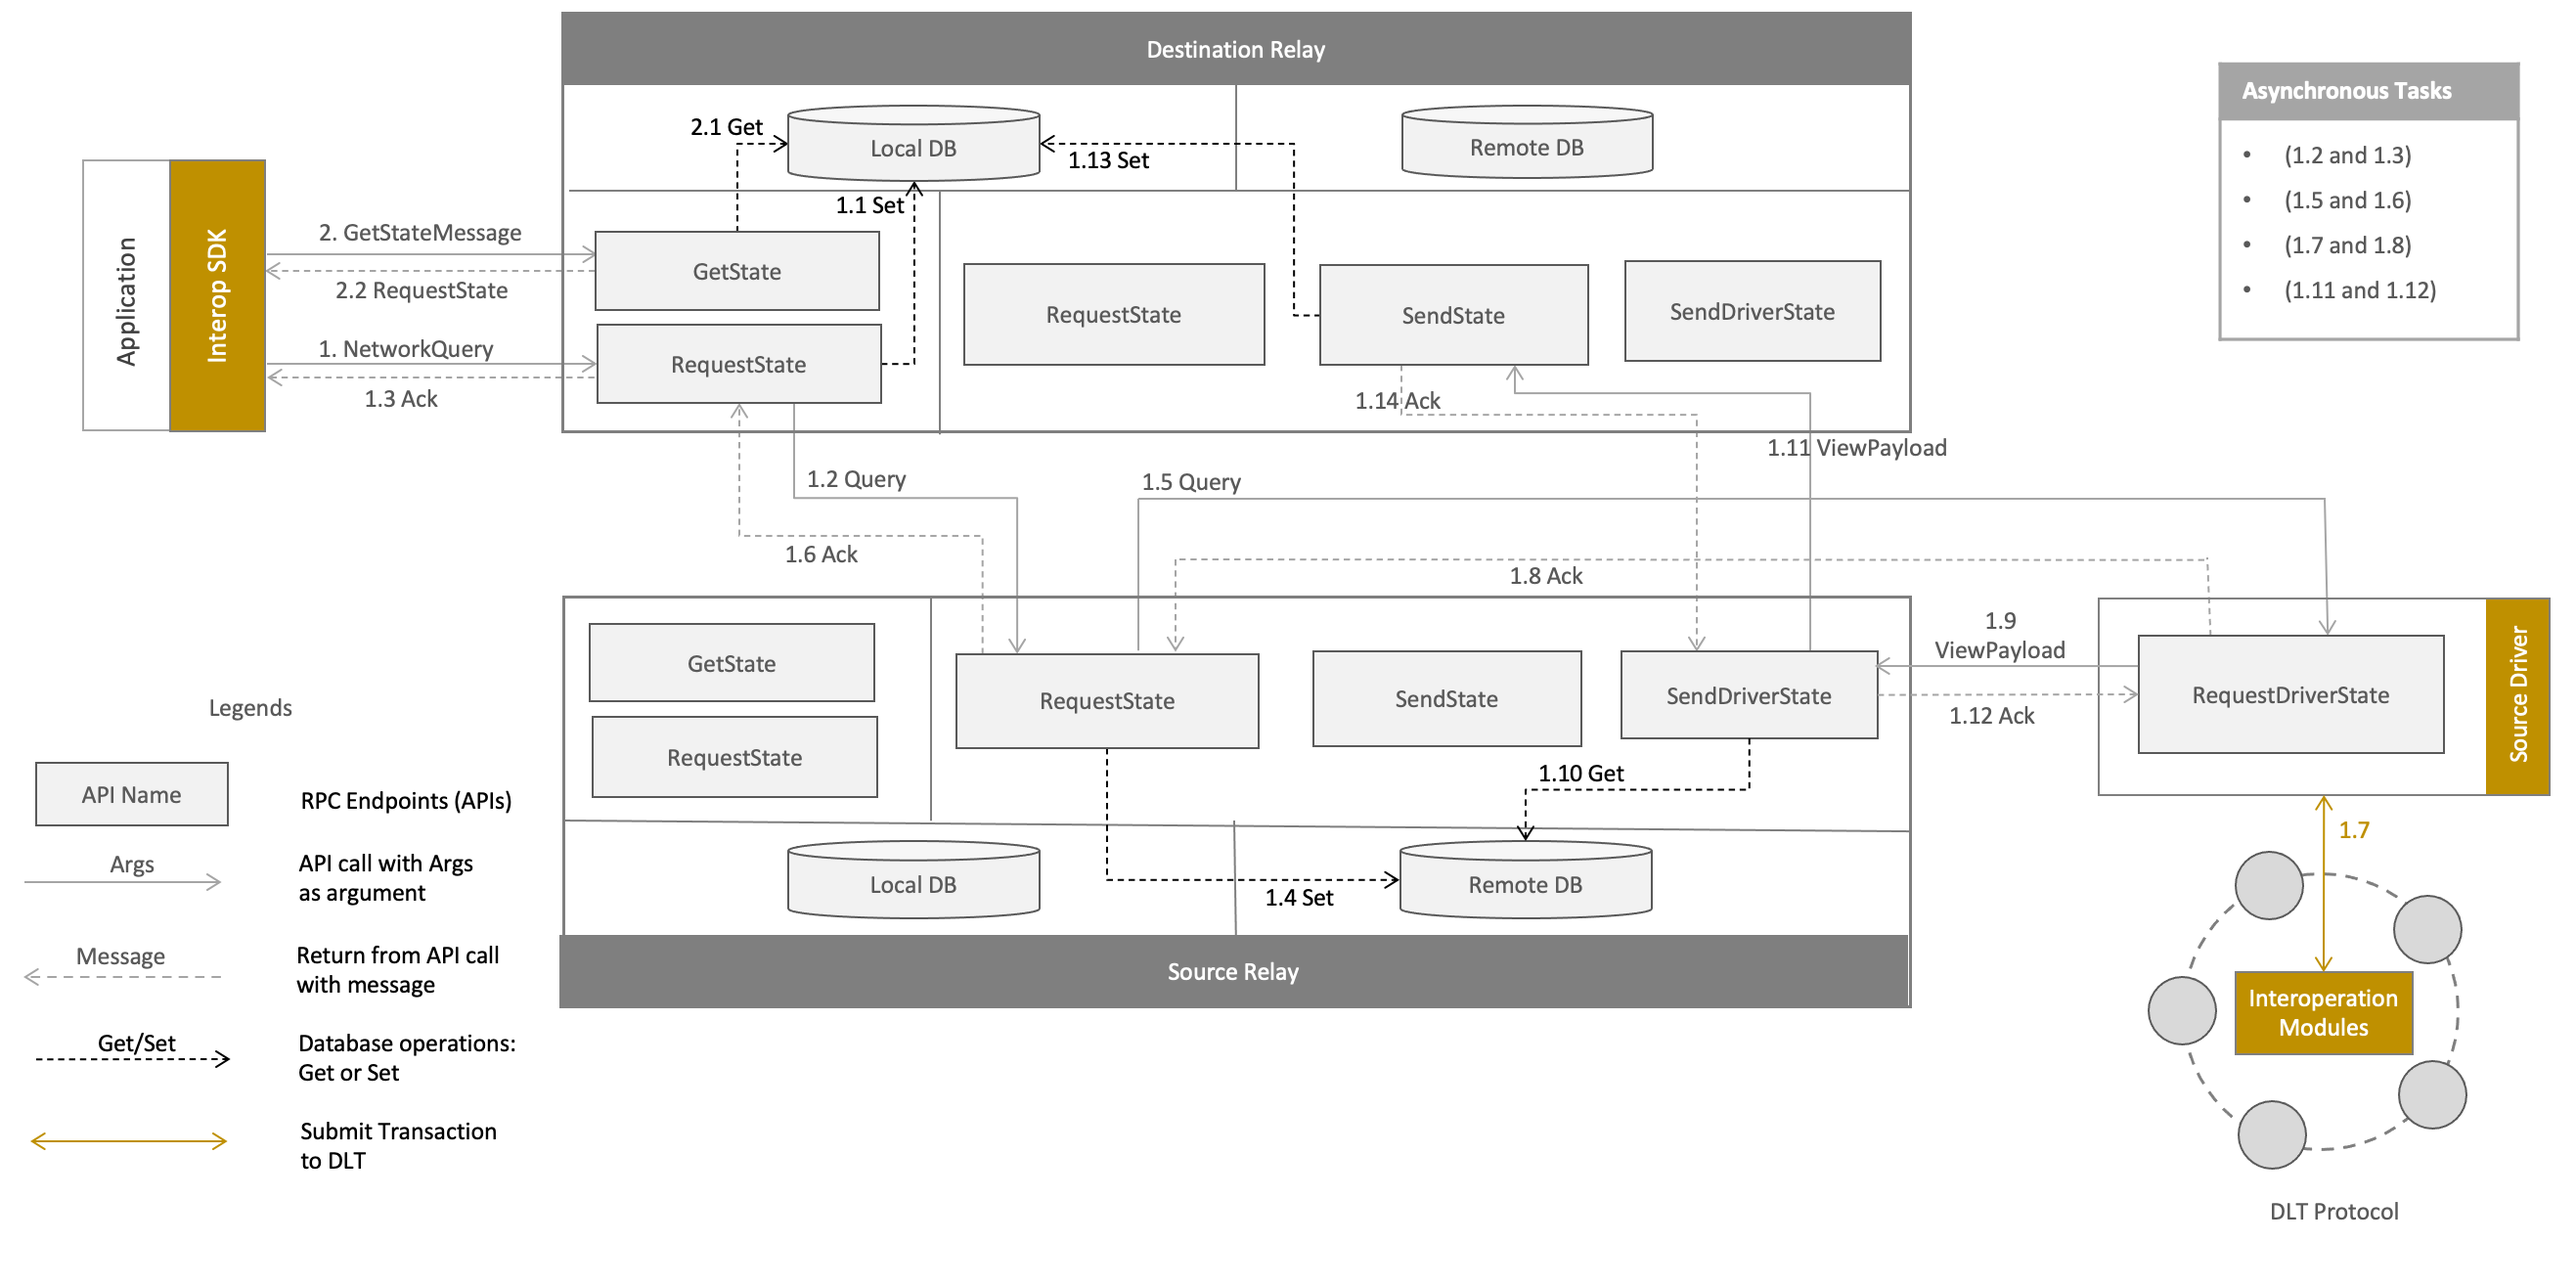
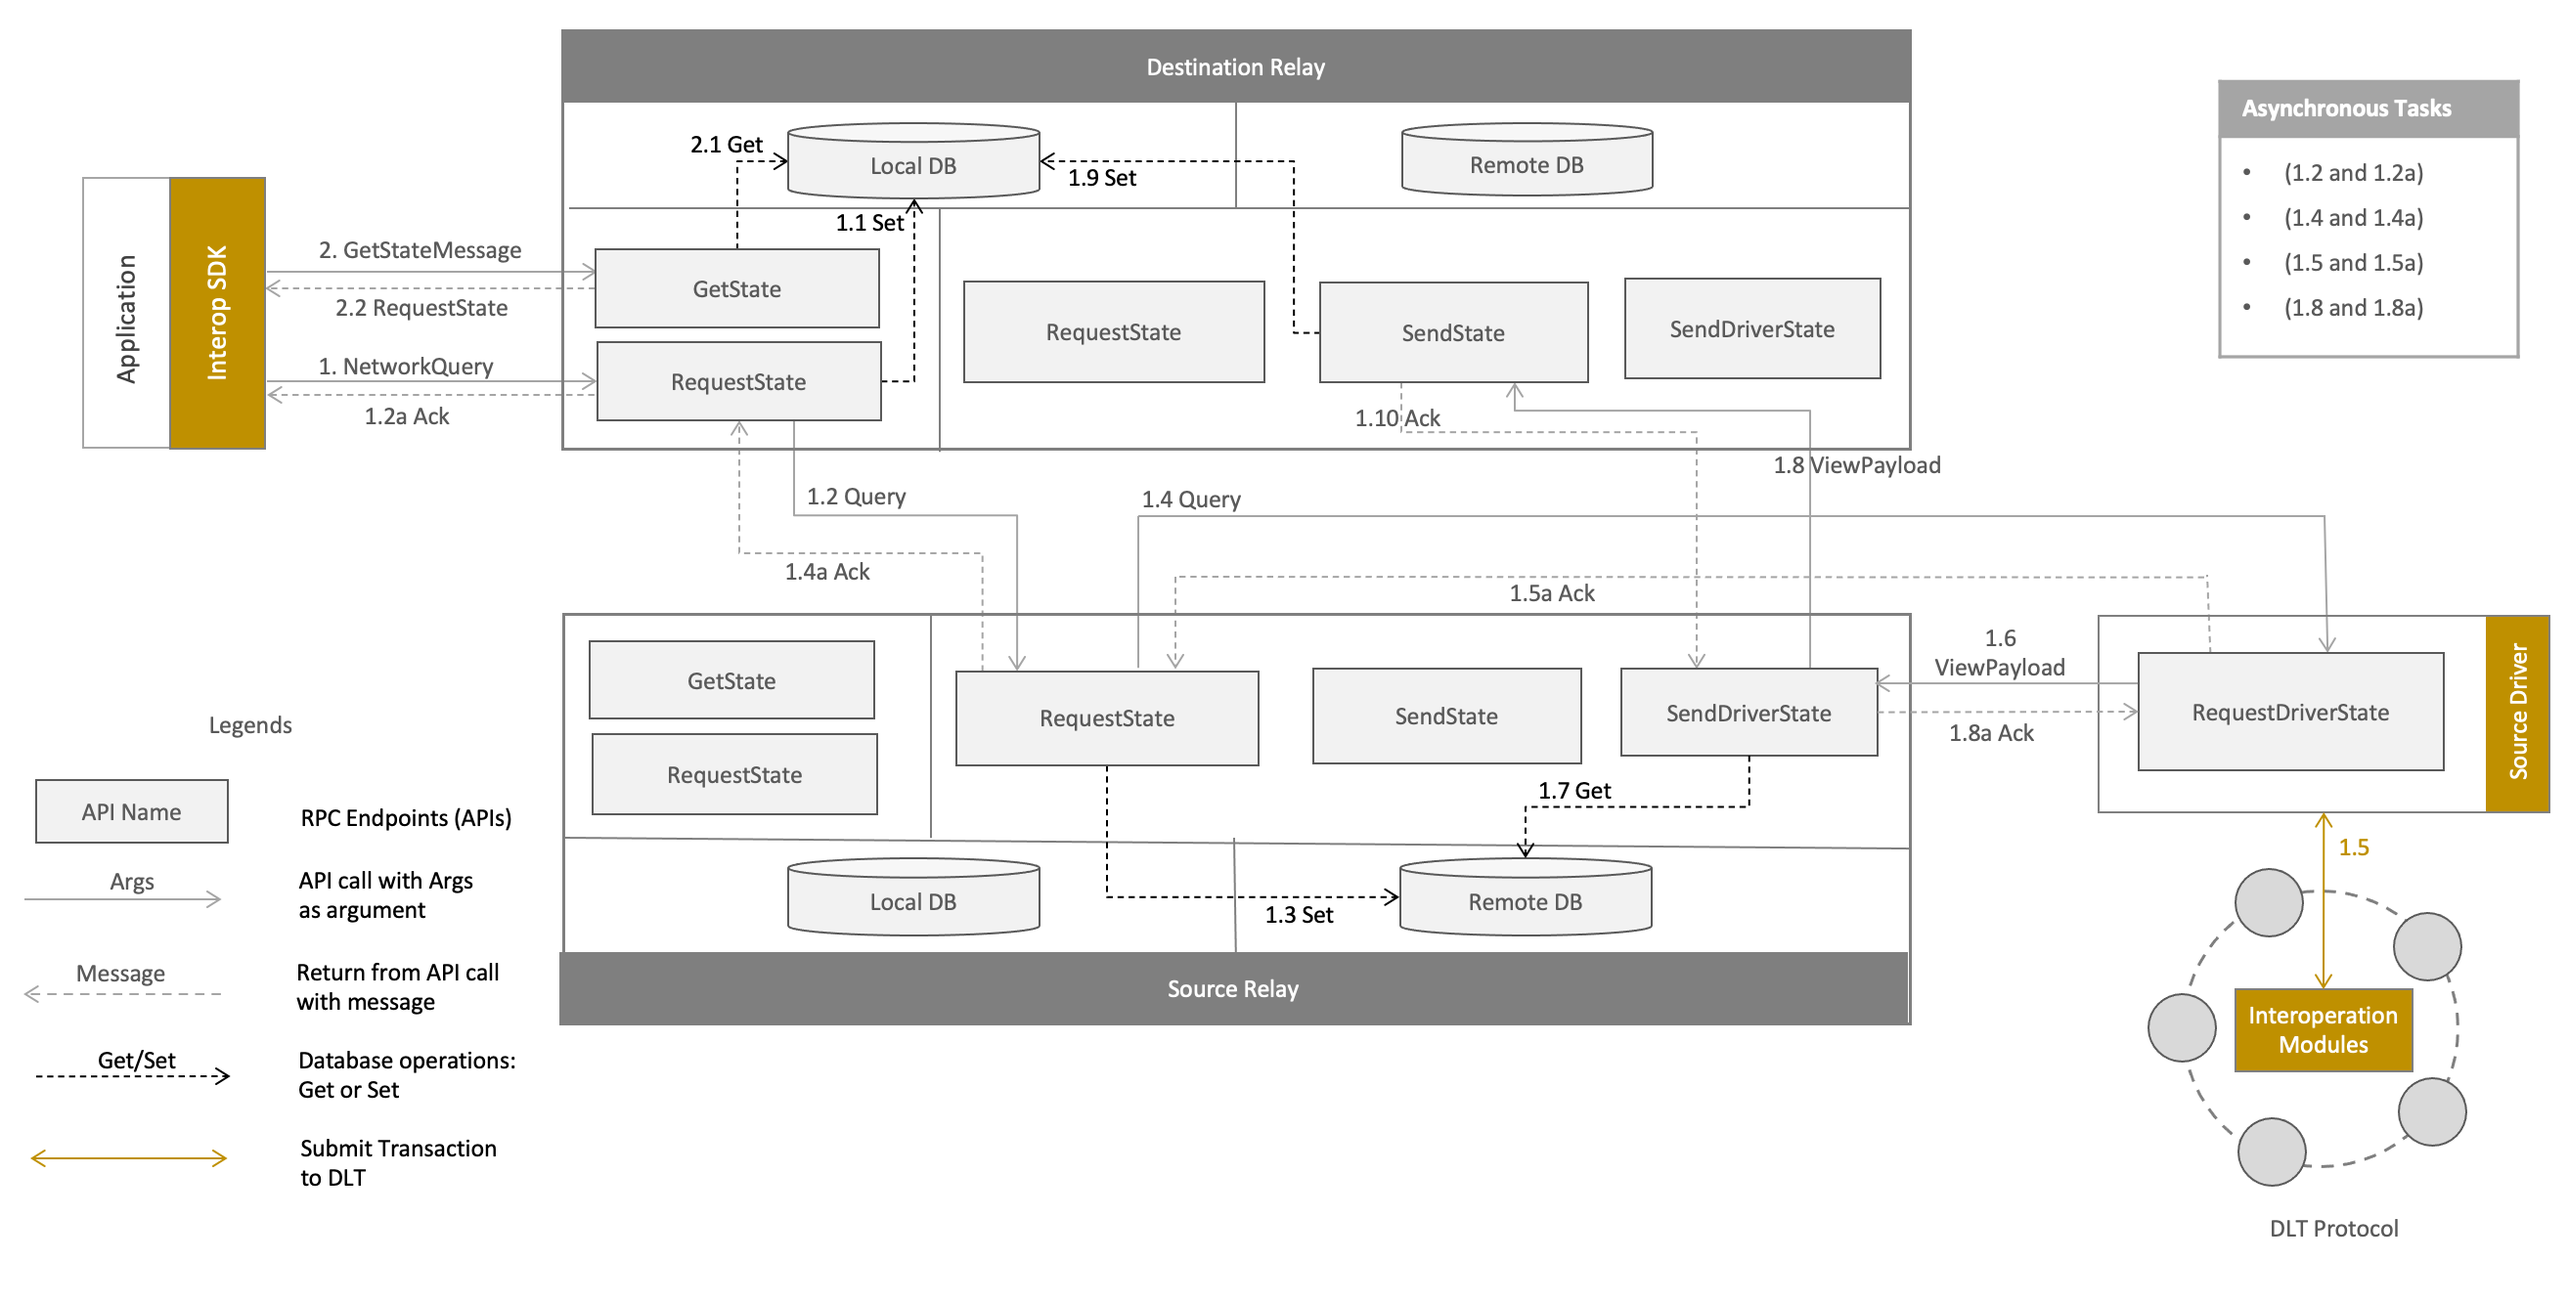
renumber steps in relay-flow rfc

diff --git a/rfcs/protocols/data-sharing/generic.md b/rfcs/protocols/data-sharing/generic.md
@@ -53,18 +53,18 @@ The end-to-end flow is explained in figure above. The steps numbers from figure 
 1. Client prepares `NetworkQuery` and sends it to Destination Relay via `RequestState` (Client App) API.
   * **1.1:** Destination relay (inside Client’s `RequestState`) generates unique `request_id` for the query and stores the `RequestState` message with current status as `PENDING_ACK` in local database at key `request_id`.
   * **1.2:** Destination relay (inside Client’s `RequestState`) prepares `Query` and spawns a thread to send the Query to source relay via `RequestState` (Relay Service) API. When destination relay will receive `Ack` from source relay, it will update the status of `RequestState` as `PENDING` in database at key `request_id`
-  * **1.3:** Destination relay (inside Client’s `RequestState`) returns Ack to the client at the end of this API (happens asynchronously with step **1.2**).
-  * **1.4:** Source relay (inside Relay’s `RequestState`) upon receiving the `Query`, stores it in remote database at key `request_id`.
-  * **1.5:** Source relay (inside Relay’s `RequestState`) then spawns a thread to send `Query` to the intended driver based on Query via `RequestDriverState` API exposed by the driver.
-  * **1.6:** Source relay (inside Relay’s `RequestState`) returns `Ack` back to the destination relay (happens asynchronously with step **1.5**).
-  * **1.7:** Driver (inside `RequestDriverState`) based on `Query`, asynchronously spawns a thread that submits transaction to DLT network using [interoperation module](./interoperation-modules.md). The response payload from `interoperation module` is received by the driver, then it creates a `View` payload based on DLT platform (e.g. [Fabric View](../../formats/views/fabric.md), [Corda View](../../formats/views/corda.md) or [Besu View](../../formats/views/besu.md) ), and then encapsulate it to DLT-neutral [View](../../formats/views/definition.md) along with meta-data. 
-  * **1.8:** Driver returns `Ack` back to the source relay (happens asynchronously with step **1.7**).
-  * **1.9:** Driver (inside `RequestDriverState`) and then prepares and sends the `ViewPayload` to the source relay via `SendDriverState` API.
-  * **1.10:** Source relay (inside `SendDriverState`) then fetches the `Query` from remote database using `request_id` from `ViewPayload`.
-  * **1.11:** Source relay (inside `SendDriverState`) spawns a thread to send the `ViewPayload` back to the destination relay via `SendState` API.
-  * **1.12:** Source relay (inside `SendDriverState`) returns `Ack` back to the driver (happens asynchronously with step **1.11**).
-  * **1.13:** Destination relay (inside `SendState`) stores the `RequestState` message with updated `state` (storing view) and `status` as `COMPLETED`, in the local database at key `request_id`.
-  * **1.14:** Destination relay (inside `SendState`) returns `Ack` back to the source relay.
+  * **1.2a:** Destination relay (inside Client’s `RequestState`) returns Ack to the client at the end of this API (happens asynchronously with step **1.2**).
+  * **1.3:** Source relay (inside Relay’s `RequestState`) upon receiving the `Query`, stores it in remote database at key `request_id`.
+  * **1.4:** Source relay (inside Relay’s `RequestState`) then spawns a thread to send `Query` to the intended driver based on Query via `RequestDriverState` API exposed by the driver.
+  * **1.4a:** Source relay (inside Relay’s `RequestState`) returns `Ack` back to the destination relay (happens asynchronously with step **1.5**).
+  * **1.5:** Driver (inside `RequestDriverState`) based on `Query`, asynchronously spawns a thread that submits transaction to DLT network using [interoperation module](./interoperation-modules.md). The response payload from `interoperation module` is received by the driver, then it creates a `View` payload based on DLT platform (e.g. [Fabric View](../../formats/views/fabric.md), [Corda View](../../formats/views/corda.md) or [Besu View](../../formats/views/besu.md) ), and then encapsulate it to DLT-neutral [View](../../formats/views/definition.md) along with meta-data. 
+  * **1.5a:** Driver returns `Ack` back to the source relay (happens asynchronously with step **1.7**).
+  * **1.6:** Driver (inside `RequestDriverState`) and then prepares and sends the `ViewPayload` to the source relay via `SendDriverState` API.
+  * **1.7:** Source relay (inside `SendDriverState`) then fetches the `Query` from remote database using `request_id` from `ViewPayload`.
+  * **1.8:** Source relay (inside `SendDriverState`) spawns a thread to send the `ViewPayload` back to the destination relay via `SendState` API.
+  * **1.8a:** Source relay (inside `SendDriverState`) returns `Ack` back to the driver (happens asynchronously with step **1.11**).
+  * **1.9:** Destination relay (inside `SendState`) stores the `RequestState` message with updated `state` (storing view) and `status` as `COMPLETED`, in the local database at key `request_id`.
+  * **1.10:** Destination relay (inside `SendState`) returns `Ack` back to the source relay.
 2. Client polls for response from Destination Relay via `GetState` API, passing `GetStateMessage` containing `request_id`.
   * **2.1:** Destination relay fetches the `RequestState` message stored in local database at key `request_id`.
   * **2.2:** Destination relay returns the `RequestState` obtained in step **2.1** to the client.
